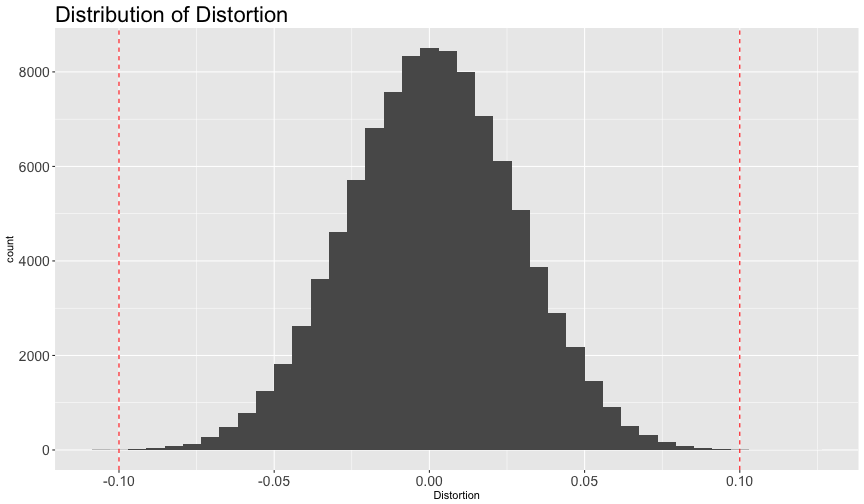
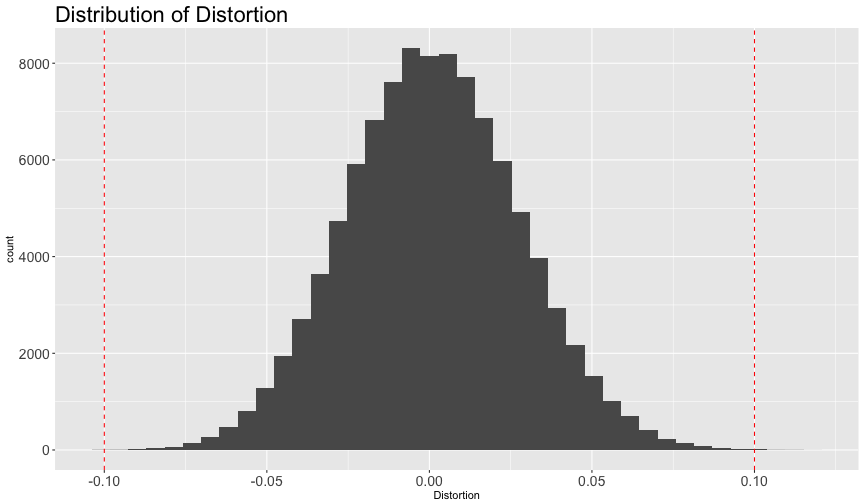
More Random Projection.

diff --git a/source/_posts/2017-12-02-fun-with-random-numbers-random-projection.md b/source/_posts/2017-12-02-fun-with-random-numbers-random-projection.md
@@ -3,10 +3,11 @@ layout: post
 title: "Fun With Random Numbers: Random Projection"
 date: 2017-12-02 12:25:46 -0500
 comments: true
-categories: a-category
 editor_options: 
   chunk_output_type: console
 ---
+
+
 
 So, there's this bit of math called the Johnson-Lindenstrauss lemma. It makes a fairly fantastic claim. Here it is in math-speak from the original paper...
 
@@ -79,7 +80,7 @@ distances = data.frame(Distance = as.numeric(distX),
                        ProjectedDistance=as.numeric(distX_projected))
 {% endhighlight %}
 
-We've projected the original 10,000 dimensions down to 692 dimensions. Let's look at a histogram of the distortion of the distances...
+We've projected the original 10,000 dimensions down to 692 dimensions. We expect that all the distances are distorted by less than 10%. Let's look at a histogram of the distortion of the distances...
 
 
 {% highlight r %}
